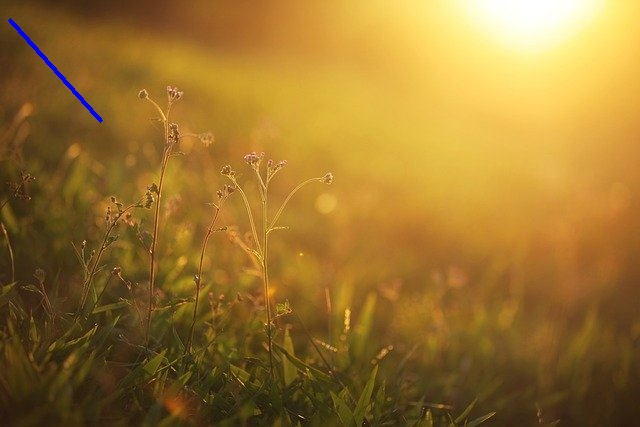
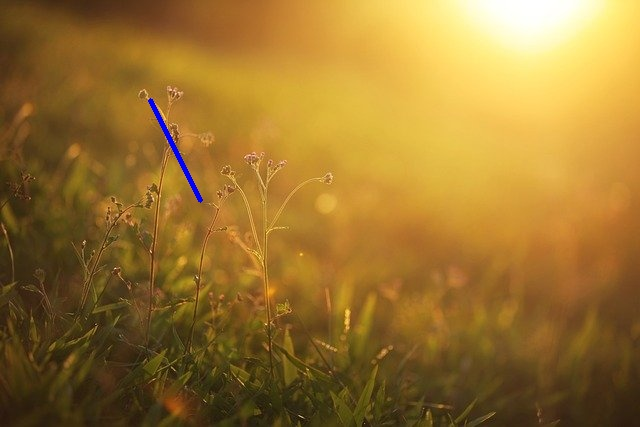
修正

Changed region(s): [[0.2188, 0.2131, 0.3438, 0.4871], [0.0625, 0.1218, 0.1562, 0.3044], [0.0, 0.0304, 0.0625, 0.1218]]

diff --git a/main.py b/main.py
@@ -17,7 +17,7 @@ if img is None:
 # 第三引数(必須) : 線分の終点の座標。tuple型。
 # 第四引数(必須) : 線分の色を指定する。B(Blue)G(Green)R(Red)形式で指定する。tuple型。
 # thickness : 線分の太さ(px)を指定する。int型(１以上の整数)。デフォルト(thicknessを指定しない場合)は1が設定される。
-cv2.line(img, (10, 20), (100, 120), (255, 0, 0), thickness=4)
+cv2.line(img, (200, 200), (150, 100), (255, 0, 0), thickness=4)
 
 # imwrite : 画像の保存を行う関数
 # 第一引数 : 保存先の画像ファイル名
